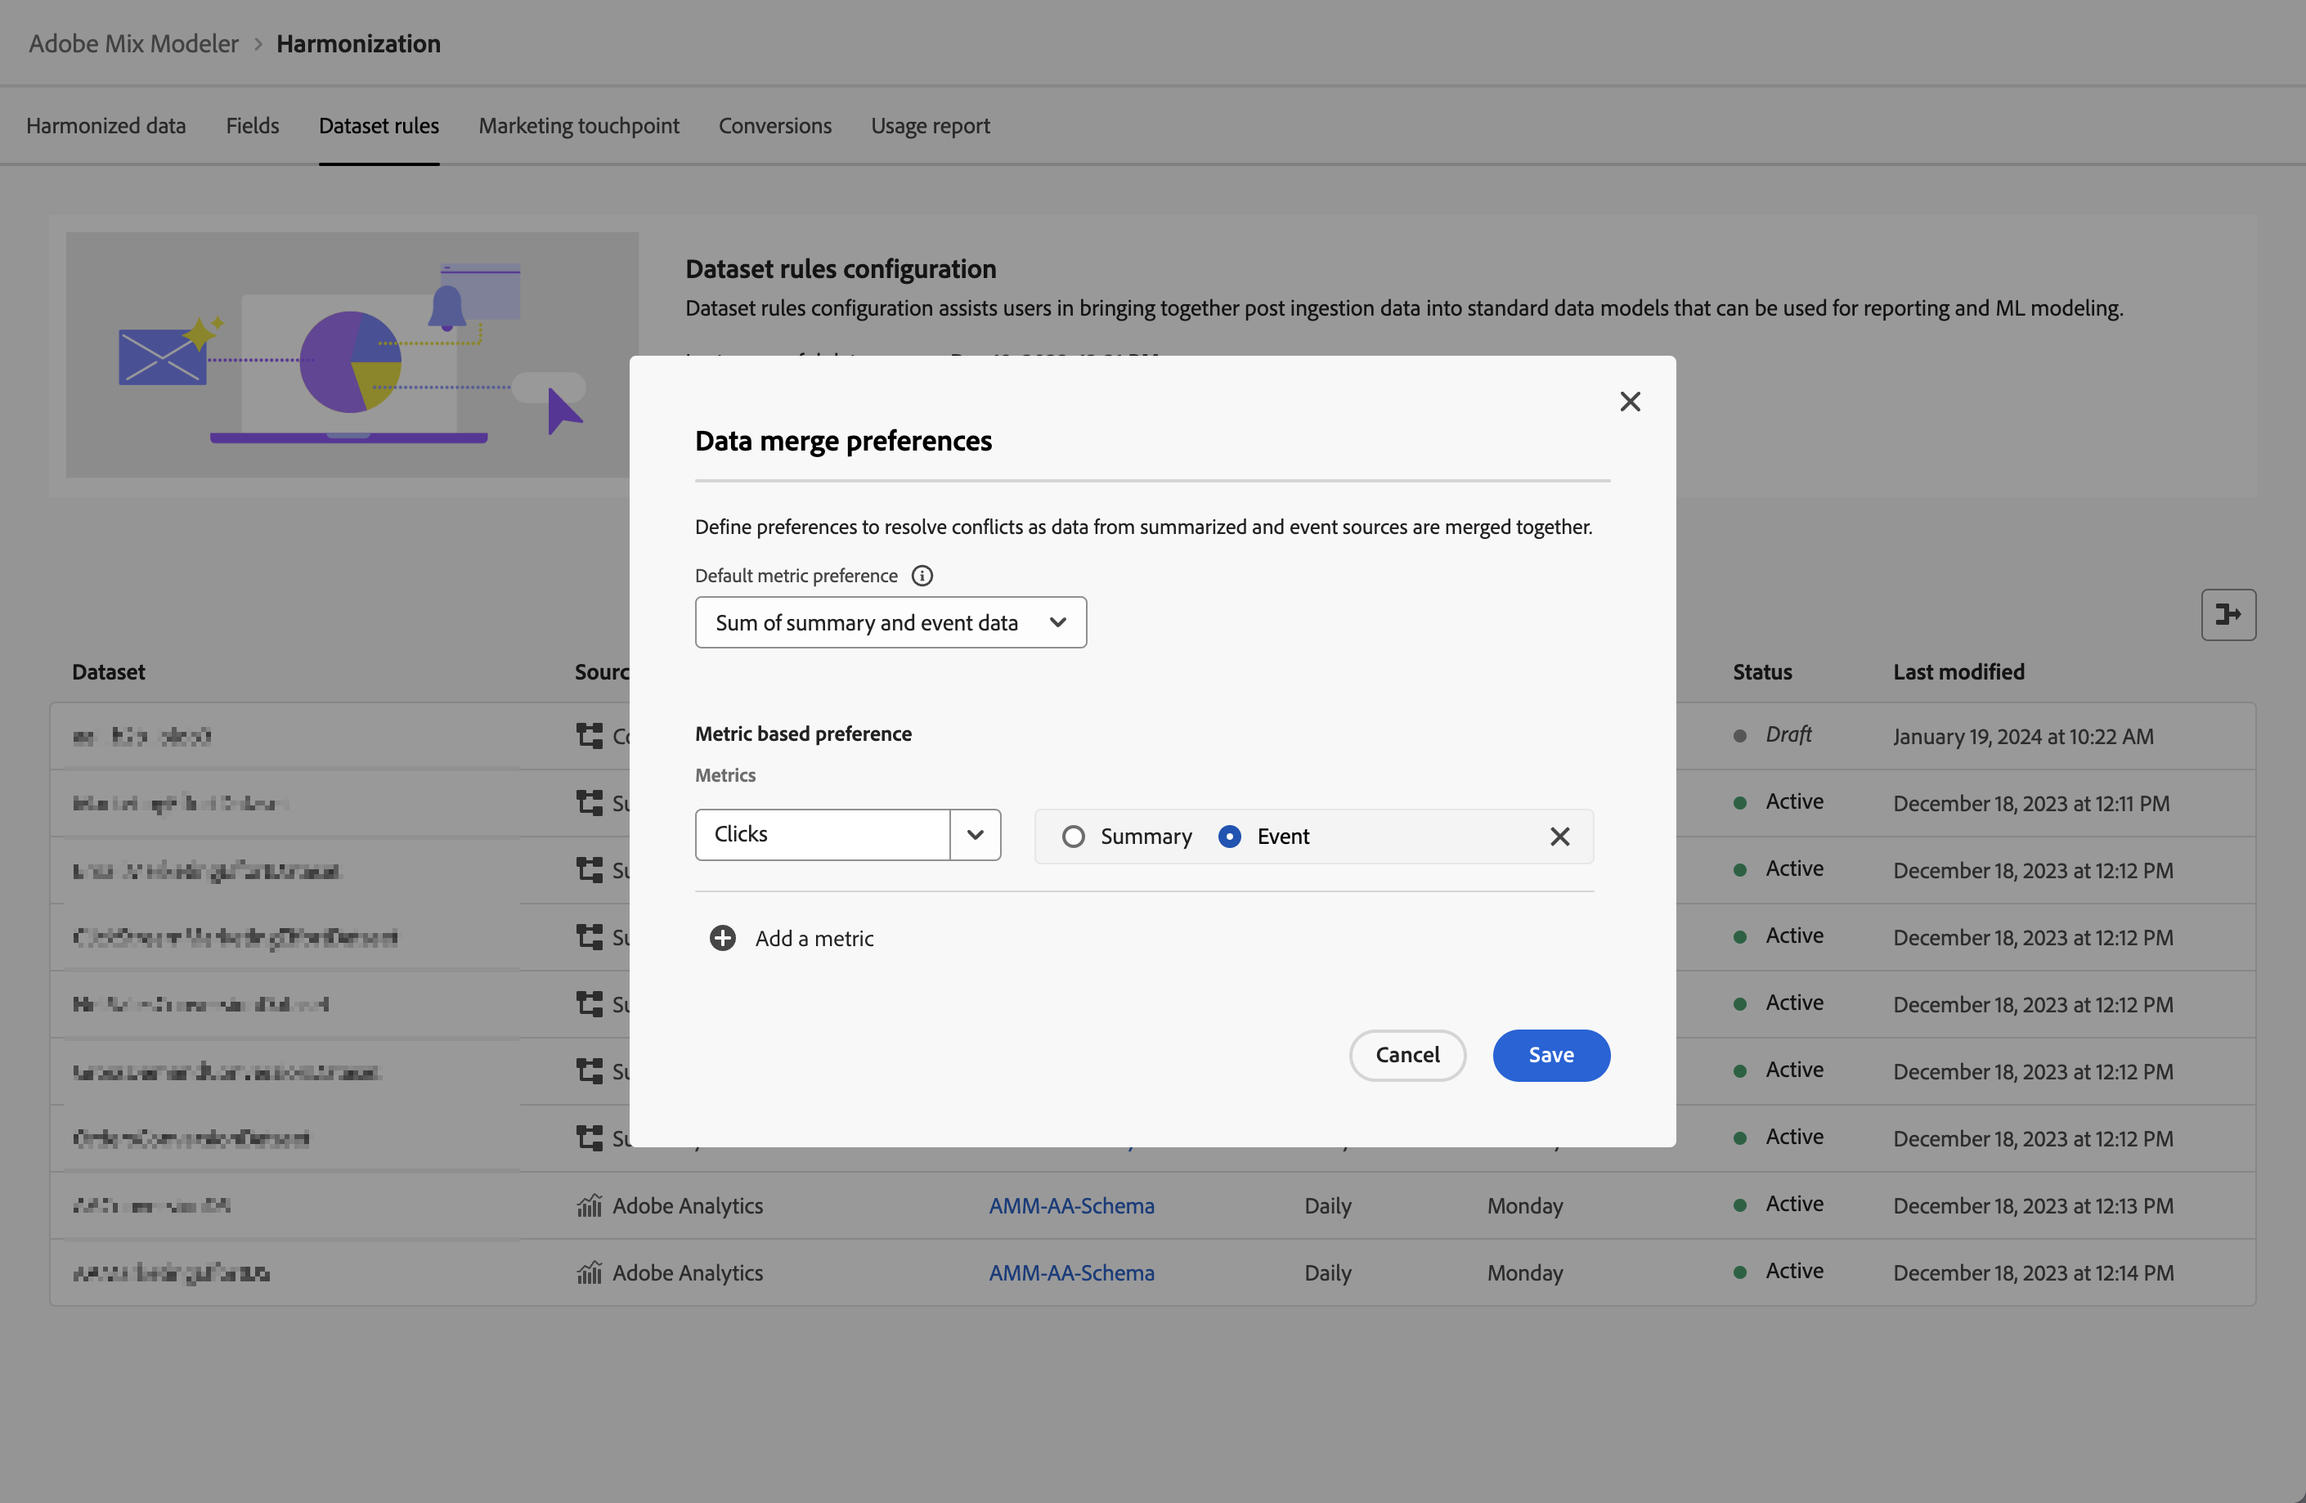
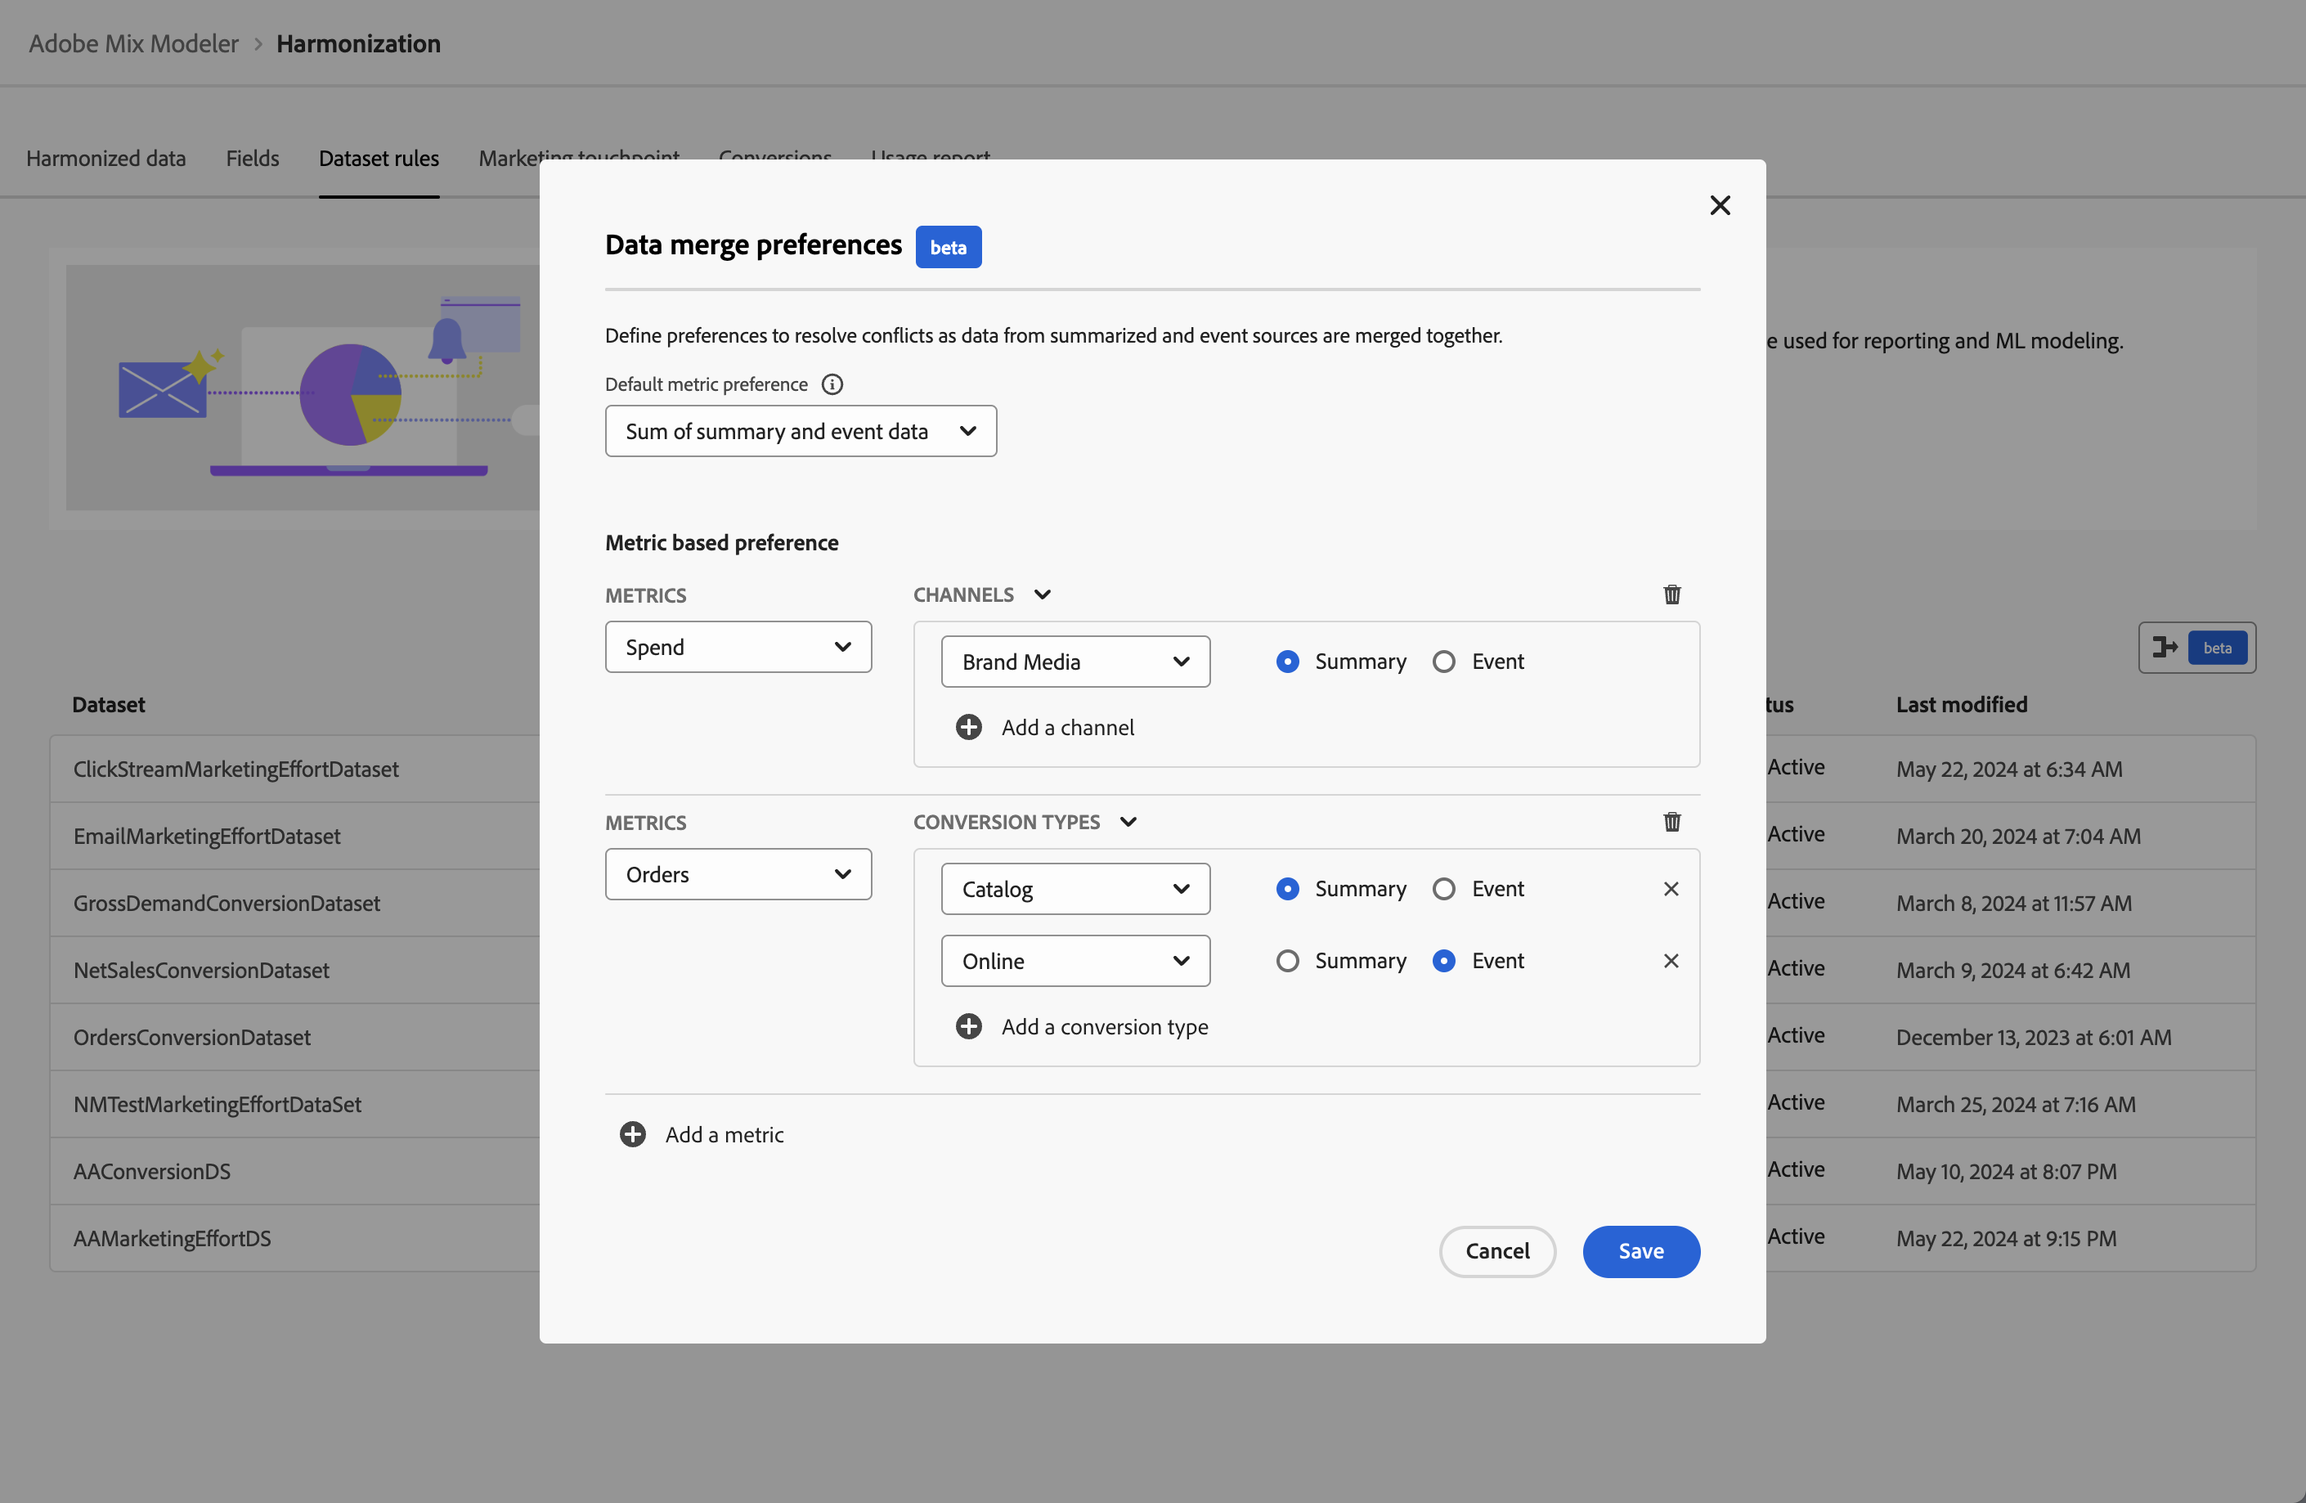
May 29 2024 release

diff --git a/help/harmonize-data/dataset-rules.md b/help/harmonize-data/dataset-rules.md
@@ -25,8 +25,8 @@ The table columns specify details about the dataset rules:
 | Column name            | Details   |
 | ---------------------- | ----------|
 | Dataset                | The name of the dataset.  |
-| Source                 | The source of the dataset, which can be Adobe Analytics, Experience Events, Summary (aggregate), or Consumer Experience Events.   |
-| Schema                 | The schema to which the dataset conforms. You can quickly select the schema name to open the schema in a new tab in the schema editor in Mix Modeler - Schemas.  |
+| Source                 | The source of the dataset: Adobe Analytics, Experience Events, Summary (aggregate), or Consumer Experience Events.   |
+| Schema                 | The schema to which the dataset conforms. You can quickly select the schema name to open the schema in a new tab in the schema editor in ![Schema](../assets/icons/Schemas.svg) [Schemas](../ingest-data/schemas.md).  |
 | Granularity            | The granularity of data in the dataset. Possible values are Daily, Weekly, Monthly or Yearly. |
 | Start of the week      | Specifies which day of the week is considered the start of a new week for the specific dataset.  |
 | Status | The status of the field: <p><span style="color:gray">●</span> Draft or <p><span style="color:green">●</span> Active |
@@ -36,7 +36,7 @@ The table columns specify details about the dataset rules:
 
 ### Create a dataset rule
 
-To create a dataset rule, in the ![DataSearch](../assets/icons/DataCheck.svg) **[!UICONTROL Harmonized data]** > **[!UICONTROL Dataset rules]** interface in Mix Modeler, select **[!UICONTROL Create Dataset rule]** in the **[!UICONTROL Dataset rules configuration]** wizard.
+To create a dataset rule, in the ![DataSearch](../assets/icons/DataCheck.svg) **[!UICONTROL Harmonized data]** > **[!UICONTROL Dataset rules]** interface in Mix Modeler, select **[!UICONTROL Create a dataset rule]** in the **[!UICONTROL Dataset rules configuration]** wizard.
 
 In the **[!UICONTROL Create]** screen, 
  
@@ -46,13 +46,13 @@ In the **[!UICONTROL Create]** screen,
 
 1. Select **[!UICONTROL Daily]**, **[!UICONTROL Weekly]**, **[!UICONTROL Monthly]** or **[!UICONTROL Yearly]** for **[!UICONTROL Granularity]**.
 
-1. When you have selected a dataset of **[!UICONTROL Summary]** category:
+1. When you have selected a dataset of the **[!UICONTROL Summary]** category:
 
-   1. To define whether data for the dataset must be aggregated or is replacing existing data, select **[!UICONTROL Aggregation]** or **[!UICONTROL Replacement]** for **[!UICONTROL Data restatement is by]**. 
+   1. To define whether data for the dataset aggregates or replaces existing data, select **[!UICONTROL Aggregation]** or **[!UICONTROL Replacement]** for **[!UICONTROL Data restatement is by]**. 
    
    1. Map each of the **[!UICONTROL Available dataset fields]** to corresponding **[!UICONTROL Standard harmonized fields]** in **[!UICONTROL Map to harmonized fields]**. If you do not want to map a dataset field to a harmonized field, explicitly select **[!UICONTROL -- None --]**.
 
-   1. If you need a new harmonized field, not available from the list, select **[!UICONTROL Create New]** to create a new harmonized field. You see the dialog as outlined in [Add a new harmonized field](fields.md#add-a-harmonized-field) to quickly allow you to add a new harmonized field.
+   1. If you need a new harmonized field, not available from the list, select **[!UICONTROL Create New]** to create a new harmonized field. You see the dialog as outlined in [Add a new harmonized field](fields.md#add-a-harmonized-field).
 
    1. When the mapping is completed for all fields for the rule, select **[!UICONTROL Save as draft]** to save a draft version of the rule or **[!UICONTROL Save]** to save and activate the rule. Select **[!UICONTROL Cancel]** to cancel the rule configuration.
 
@@ -72,11 +72,11 @@ In the **[!UICONTROL Create]** screen,
 
       1. Select **[!UICONTROL Map Into]** or **[!UICONTROL Case]** from **[!UICONTROL Mapping type]**.
 
-      1. When you have selected **[!UICONTROL Map Into]**, select **[!UICONTROL Field]** and **[!UICONTROL *AEP dataset field*]** or **[!UICONTROL Value]**  and a default value to map the harmonized field by default to the dataset field or entered value.
+      1. When you have selected **[!UICONTROL Map Into]**, select **[!UICONTROL Field]** and **[!UICONTROL *AEP dataset field*]** or **[!UICONTROL Value]** and a default value to map the harmonized field by default to the dataset field or entered value.
 
-      1. When you have select **[!UICONTROL Case]**, select **[!UICONTROL Field]** and **[!UICONTROL *AEP dataset field*]** or **[!UICONTROL Value]**  and a default value to map the harmonized field by default to the dataset field or entered value. 
+      1. When you select **[!UICONTROL Case]**, select **[!UICONTROL Field]** and **[!UICONTROL *AEP dataset field*]** or **[!UICONTROL Value]** and a default value to map the harmonized field by default to the dataset field or entered value. 
 
-         1. Also, you define one or more cases, consisting of one or more conditions to explicitly set values. Each condition can check for a specific **[!UICONTROL *AEP dataset field*]** whether it **[!UICONTROL Exists]** or **[!UICONTROL Not Exists]** or whether it **[!UICONTROL Contains]**, **[!UICONTROL Not Contains]**, **[!UICONTROL Equals]**, **[!UICONTROL Not Equals]**, **[!UICONTROL Starts With]**, or **[!UICONTROL Ends With]** a value entered at **[!UICONTROL *Enter input value*]**.
+         1. To set values explicitly, you define one or more cases, consisting of one or more conditions. Each condition can check for a specific **[!UICONTROL *AEP dataset field*]** whether it **[!UICONTROL Exists]** or **[!UICONTROL Not Exists]** or whether it **[!UICONTROL Contains]**, **[!UICONTROL Not Contains]**, **[!UICONTROL Equals]**, **[!UICONTROL Not Equals]**, **[!UICONTROL Starts With]**, or **[!UICONTROL Ends With]** a value entered at **[!UICONTROL *Enter input value*]**.
 
          1. To add another case, select ![Add](../assets/icons/AddCircle.svg) **[!UICONTROL Add case]**, to add another condition, select ![Add](../assets/icons/AddCircle.svg) **[!UICONTROL Add condition]**.
 
@@ -115,7 +115,7 @@ To edit a dataset rule, in the ![DataSearch](../assets/icons/DataCheck.svg) **[!
 To delete a dataset rule, in the ![DataSearch](../assets/icons/DataCheck.svg) **[!UICONTROL Harmonized data]** > **[!UICONTROL Dataset rules]** interface in Mix Modeler:
 
 1. Select ![More](../assets/icons/More.svg) in the **[!UICONTROL Dataset]** column for the dataset rule that you want to delete.
-1. From the context menu, select ![Delete](../assets/icons/Delete.svg) **[!UICONTROL Delete]** to delete the dataset rule. You are prompted for confirmation. Select **[!UICONTROL Delete]** to permanently delete the selected dataset rule.
+1. From the context menu, select ![Delete](../assets/icons/Delete.svg) **[!UICONTROL Delete]** to delete the dataset rule. You are prompted for confirmation. Select **[!UICONTROL Delete]** to delete the selected dataset rule permanently.
    
 
 ## Sync data
@@ -124,32 +124,61 @@ To sync data between your harmonized data and summary and / or event datasets, f
 
 1. Select **[!UICONTROL Sync data]**.
 
-1. From the **[!UICONTROL Sync data for dataset rules]** dialog, select either **[!UICONTROL Refresh harmonized data for summary datasets]**, **[!UICONTROL Refresh harmonized data for event datasets]**, or **[!UICONTROL Refresh harmonized data for both summary + event datasets]**.
+1. From the **[!UICONTROL Sync data for dataset rules]** dialog, either select
+   * **[!UICONTROL Refresh harmonized data for summary datasets]**, 
+   * **[!UICONTROL Refresh harmonized data for event datasets]**, or 
+   * **[!UICONTROL Refresh harmonized data for both summary + event datasets]**.
    
 1. To start the synchronization based on the defined dataset rules between harmonized data and data in datasets, select **[!UICONTROL Sync]**. To cancel the synchronization, select **[!UICONTROL Cancel]**.
 
    ![Sync data](../assets/sync-data.png)
 
 
-## Data merge preferences
+## Data merge preferences 
 
-You can define preferences to resolve conflicts as data from summarized and event sources are merged together. To do this:
+>[!NOTE]
+>
+>[!BADGE Beta]{type=Informative} The Data merge preferences is a beta feature and its functionality is subject to change.
 
-1. Select ![Data merge preferences](../assets/icons/Merge.svg) **Data merge preferences**.
+Data merge preferences assists in resolving conflicts when data from summarized and event data sources are merged. Use cases are:
+
+* the same advertising metric is measured and reported in multiple datasets, or
+* metrics measurement may be incomplete in some datasets, while another dataset may be a superset of a particular metric, resulting to double counting. 
+  
+To ensure accurate model predictions, you can define data merge preferences:
+
+1. Select ![Data merge preferences](../assets/icons/Merge.svg) [!BADGE beta] **Data merge preferences**.
 
 1. In the **[!UICONTROL Data merge preferences]** dialog:
 
    ![Data merge preferences](../assets/data-merge-preferences.png)
 
-   1. Select a default metric preference from the **[!UICONTROL Default metric preference]** list. <p>A default preference is applied when during harmonization, multiple sources of data try to update a metric field for a given channel. This preference is applied at the sandbox level unless overridden for certain metric preferences defined at **[!UICONTROL Metric based preference]**.
+   * Select a **[!UICONTROL Default metric preference]**. The selected default metric preference is applied when, during harmonization, multiple sources of data update a metric field for a given channel. The preference is applied at the sandbox level, unless overridden for specific metric based preferences.
 
-   1. Use ![Plus](../assets/icons/AddCircle.svg) **[!UICONTROL Add a metric]**, to add one or more metrics below **[!UICONTROL Metric based preference]**.
+   * To add specific metric based preferences:
+   
+      1. Select ![Plus](../assets/icons/AddCircle.svg) **[!UICONTROL Add a metric]**.
+         1. Select a metric from the **[!UICONTROL *Metric selection*]** list.
+         1. Select **[!UICONTROL CHANNELS]** or **[!UICONTROL CONVERSION TYPES]**. From the list, select **[!UICONTROL All]** or a specific channel or conversion type.
+         1. Select **[!UICONTROL Summary]** or **[!UICONTROL Event]** to specify whether summary data or event data is preferred for the metric (and all or selected channel) when merging data.
+   
+         To add one or more additional channel or conversion types:
+         
+         1. Select ![Plus](../assets/icons/AddCircle.svg) **[!UICONTROL Add a channel]** or ![Plus](../assets/icons/AddCircle.svg) **[!UICONTROL Add a conversion type]**.
+         1. Select **[!UICONTROL Summary]** or **[!UICONTROL Event]**.
 
+         To delete a channel or conversion type, select ![Cross](../assets/icons/Close.svg).
 
+      1. To add more specific metric based preferences, repeat the previous step.
 
-      * Select a metric from the **[!UICONTROL _Metric selection_]** list, and
-      * Select **[!UICONTROL Summary]** or **[!UICONTROL Event]**.
+   * To delete an existing specific metric based preference, select ![Delete](../assets/icons/Delete.svg).
 
-      Use ![Delete](../assets/icons/Close.svg) to delete an entry from the list.
+1. Select **[!UICONTROL Save]** to save the data merge preferences. A re-sync of the data is initiated. <br/>Select **[!UICONTROL Cancel]** to cancel.
 
-   1. Select **[!UICONTROL Save]** to save the data merge preferences. Select **[!UICONTROL Cancel]** to cancel.
+## Field-level access control
+
+When configuring dataset rules for harmonized datasets, Experience Platform's [attribute based access control](https://experienceleague.adobe.com/en/docs/experience-platform/access-control/abac/overview) is enforced on a field-level. A field is restricted when a label is attached to a schema field and an active policy is enabled that denies access for you to that field. As a result:
+
+* you do not see the schema fields that are restricted for you when you create a dataset rule, 
+* you are not able to view or edit the mapping of one or more schema fields that are restricted for you. When you edit or view a dataset rule containing such restricted fields, you see the following screen.
+  ![Action not permitted](../assets/action-not-permitted.png)

diff --git a/help/releases/latest.md b/help/releases/latest.md
@@ -7,9 +7,16 @@ exl-id: 38a47672-2af2-437c-b769-4d5febb941f5
 ---
 # Current Mix Modeler release notes
 
-**Last update**: April 1, 2024.
+**Last update**: May 29, 2024.
 
 These release notes cover the latest release of Mix Modeler. Mix Modeler releases operate on a continuous delivery model which allows for an approximate monthly release cadence. Accordingly, these release notes get updated, so  check them regularly.
+
+## May 2024
+
+| Feature | Description | General Availability |
+|---|---|---|
+| **Data merge preferences** | [Data merge preferences](../harmonize-data/dataset-rules.md#data-merge-preferences) assists in resolving conflicts when data from summarized and event data sources are merged. | May 29, 2024 | 
+| **Field-level access control** | When defining dataset rules, Experience Platform's [attribute based access control](https://experienceleague.adobe.com/en/docs/experience-platform/access-control/abac/overview) is enforced on a [field-level](../harmonize-data/dataset-rules.md#field-level-access-control). | May 29, 2024 |
 
 
 ## April 2024
